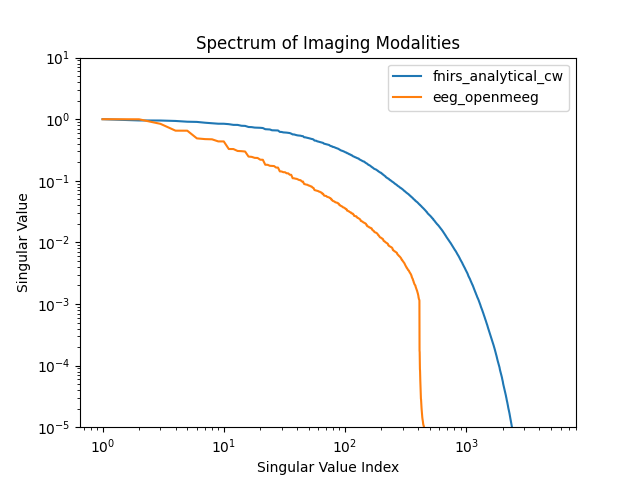
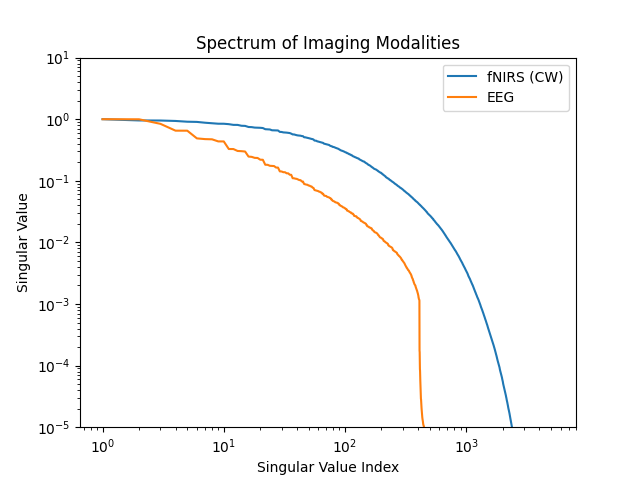
update labels

Changed region(s): [[0.5938, 0.125, 0.875, 0.2188]]

diff --git a/guti/data_utils.py b/guti/data_utils.py
@@ -14,7 +14,6 @@ os.makedirs(RESULTS_DIR, exist_ok=True)
 os.makedirs(VARIANTS_DIR, exist_ok=True)
 
 
-
 def save_svd(
     s: NDArray,
     modality_name: str,
@@ -95,11 +94,18 @@ def load_all_svds() -> Dict[str, Tuple[NDArray, Optional[Parameters]]]:
         Dictionary mapping modality names to tuples of (singular_values, Parameters)
         where Parameters is a Parameters object or None if no parameters were saved
     """
+    filenames_to_labels = {
+        "eeg_openmeeg": "EEG",
+        "fnirs_analytical_cw": "fNIRS (CW)",
+    }
+
     results = {}
     for filename in os.listdir(RESULTS_DIR):
         if filename.endswith("_svd_spectrum.npz"):
             modality_name = filename.replace("_svd_spectrum.npz", "")
-            results[modality_name] = load_svd(modality_name)
+            # Use label if exists, otherwise use modality_name
+            label = filenames_to_labels.get(modality_name, modality_name)
+            results[label] = load_svd(modality_name)
     return results
 
 
@@ -192,9 +198,16 @@ def list_svd_variants(
         for k, v in variants.items():
             params = v["params"]
             # Check if all specified constant params match
-            constant_match = all(getattr(params, key, None) == value for key, value in constant_dict.items())
+            constant_match = all(
+                getattr(params, key, None) == value
+                for key, value in constant_dict.items()
+            )
             # Check if sort_by param exists (are not None)
-            sort_match = getattr(params, sort_by, None) is not None if sort_by is not None else True
+            sort_match = (
+                getattr(params, sort_by, None) is not None
+                if sort_by is not None
+                else True
+            )
 
             if constant_match and sort_match:
                 filtered_variants[k] = v
